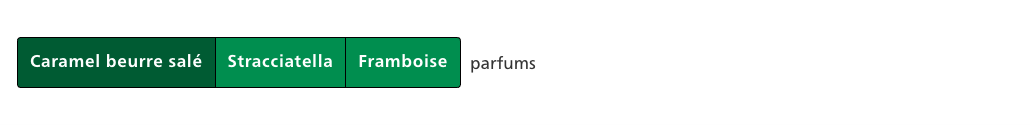
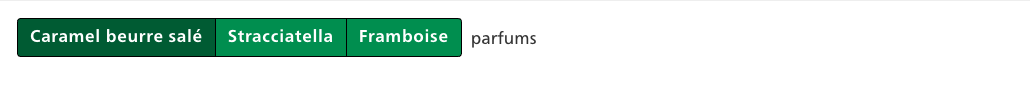
fix button colors (ugly but needed)

Changed region(s): [[0.0, 0.1818, 0.5282, 0.7273]]

diff --git a/assets/sass/atoms/_button.scss b/assets/sass/atoms/_button.scss
@@ -13,6 +13,7 @@
   }
 
   @include font-secondary;
+  @include button-variant($btn-default-color, $btn-default-bg, $btn-default-border);
 
   &:first-letter {
     text-transform: uppercase;
@@ -22,22 +23,20 @@
   &.active {
     box-shadow: none;
   }
+
+  @each $label, $color in $themes {
+    &.btn-#{$label} {
+      @include button-variant($white, $color, $btn-default-border);
+    }
+  }
 }
 
 .btn-icon {
-  @include button-variant($btn-default-color, $btn-default-bg, $btn-default-border);
-
   i {
     width: 26px;
     height: 26px;
     vertical-align: middle;
     font-size: 1.6em;
-  }
-}
-
-@each $label, $color in $themes {
-  .btn-#{$label} {
-    @include button-variant($white, $color, $btn-default-border);
   }
 }
 
